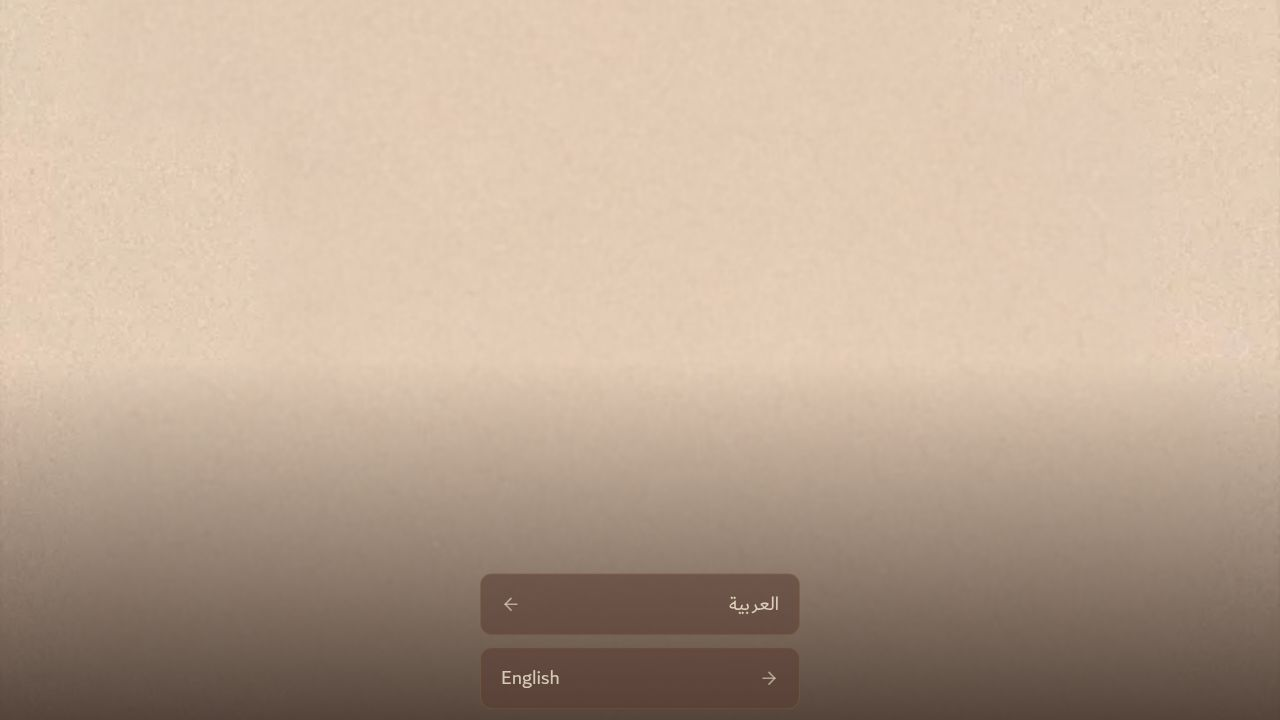
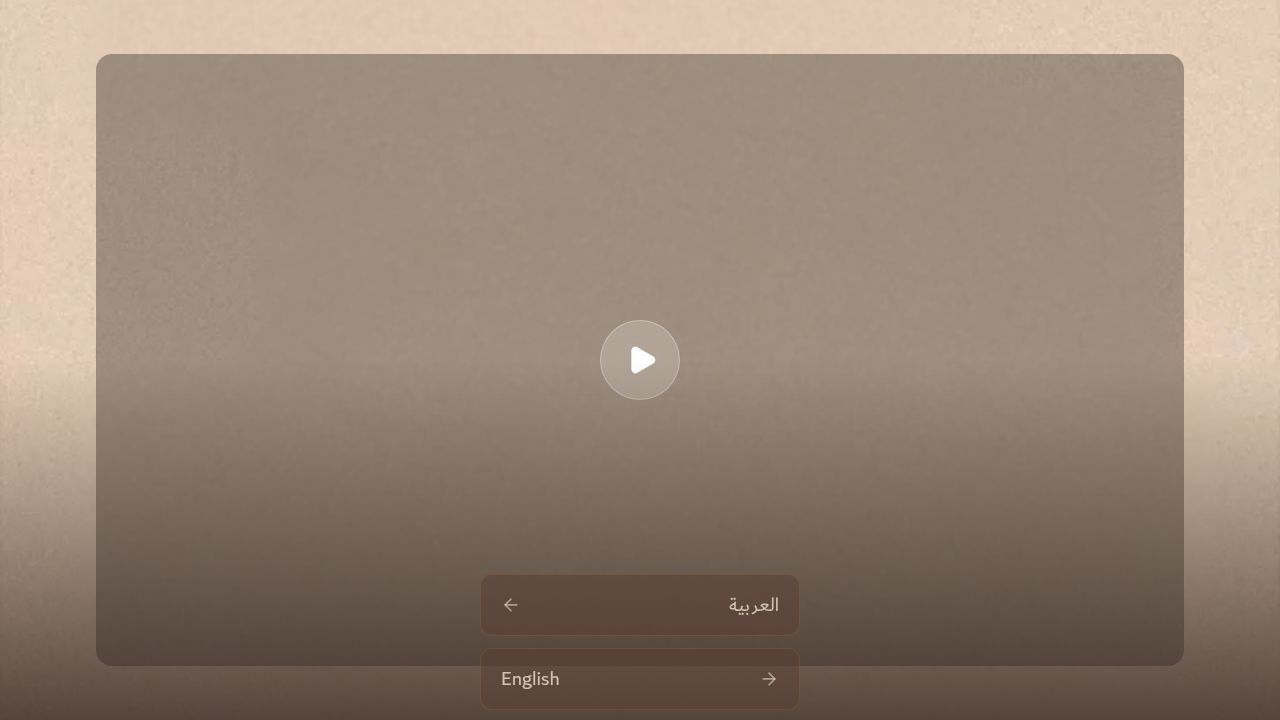
Fix videos not playing by ensuring they are always loaded
Update AnimalDetailPage to always render the video element, controlling visibility with opacity, and use a useEffect hook to manage playback initiation when the 'isPlaying' state changes. This resolves issues with the onLoadedData event not reliably triggering video playback.

Replit-Commit-Author: Agent
Replit-Commit-Session-Id: 2bec13fa-1d2b-463c-9a79-416ae2e5752d
Replit-Commit-Checkpoint-Type: full_checkpoint
Replit-Commit-Event-Id: 587b556f-ee0a-4aee-87ba-f4ea50a9b6a2
Replit-Commit-Screenshot-Url: https://storage.googleapis.com/screenshot-production-us-central1/aa615bb1-2cf1-445e-ba37-0ffc87e89ee3/2bec13fa-1d2b-463c-9a79-416ae2e5752d/aicGRk8
Replit-Helium-Checkpoint-Created: true

diff --git a/client/src/pages/AnimalDetailPage.tsx b/client/src/pages/AnimalDetailPage.tsx
@@ -178,6 +178,24 @@ export default function AnimalDetailPage() {
     }
   }, [isArOpen]);
 
+  // Handle play/pause when isPlaying changes
+  useEffect(() => {
+    const video = videoRef.current;
+    if (!video) return;
+    
+    if (isPlaying) {
+      video.play()
+        .then(() => setIsVideoLoading(false))
+        .catch((e) => {
+          console.error("Video play failed:", e);
+          setIsVideoLoading(false);
+          setIsPlaying(false);
+        });
+    } else {
+      video.pause();
+    }
+  }, [isPlaying]);
+
   if (userLoading) {
     return (
       <div className="h-[100dvh] w-full bg-background flex items-center justify-center">
@@ -203,8 +221,8 @@ export default function AnimalDetailPage() {
           onError={(e) => { e.currentTarget.src = animal.image; }}
         />
         
-        {/* Video overlay when playing */}
-        {isPlaying && currentVideo && (
+        {/* Video - always rendered but opacity controlled */}
+        {currentVideo && (
           <video 
             ref={videoRef}
             src={currentVideo} 
@@ -217,16 +235,8 @@ export default function AnimalDetailPage() {
             muted={isMuted}
             onEnded={handleVideoEnded}
             onClick={handleStopVideo}
-            onLoadedData={() => {
-              // Start playing once video data is loaded
-              if (videoRef.current && isPlaying) {
-                videoRef.current.play()
-                  .then(() => setIsVideoLoading(false))
-                  .catch(() => setIsVideoLoading(false));
-              }
-            }}
             onPlaying={() => setIsVideoLoading(false)}
-            className="w-full h-full object-cover absolute inset-0 z-0"
+            className={`w-full h-full object-cover absolute inset-0 z-0 transition-opacity duration-300 ${isPlaying ? 'opacity-100' : 'opacity-0 pointer-events-none'}`}
           />
         )}
       </div>
